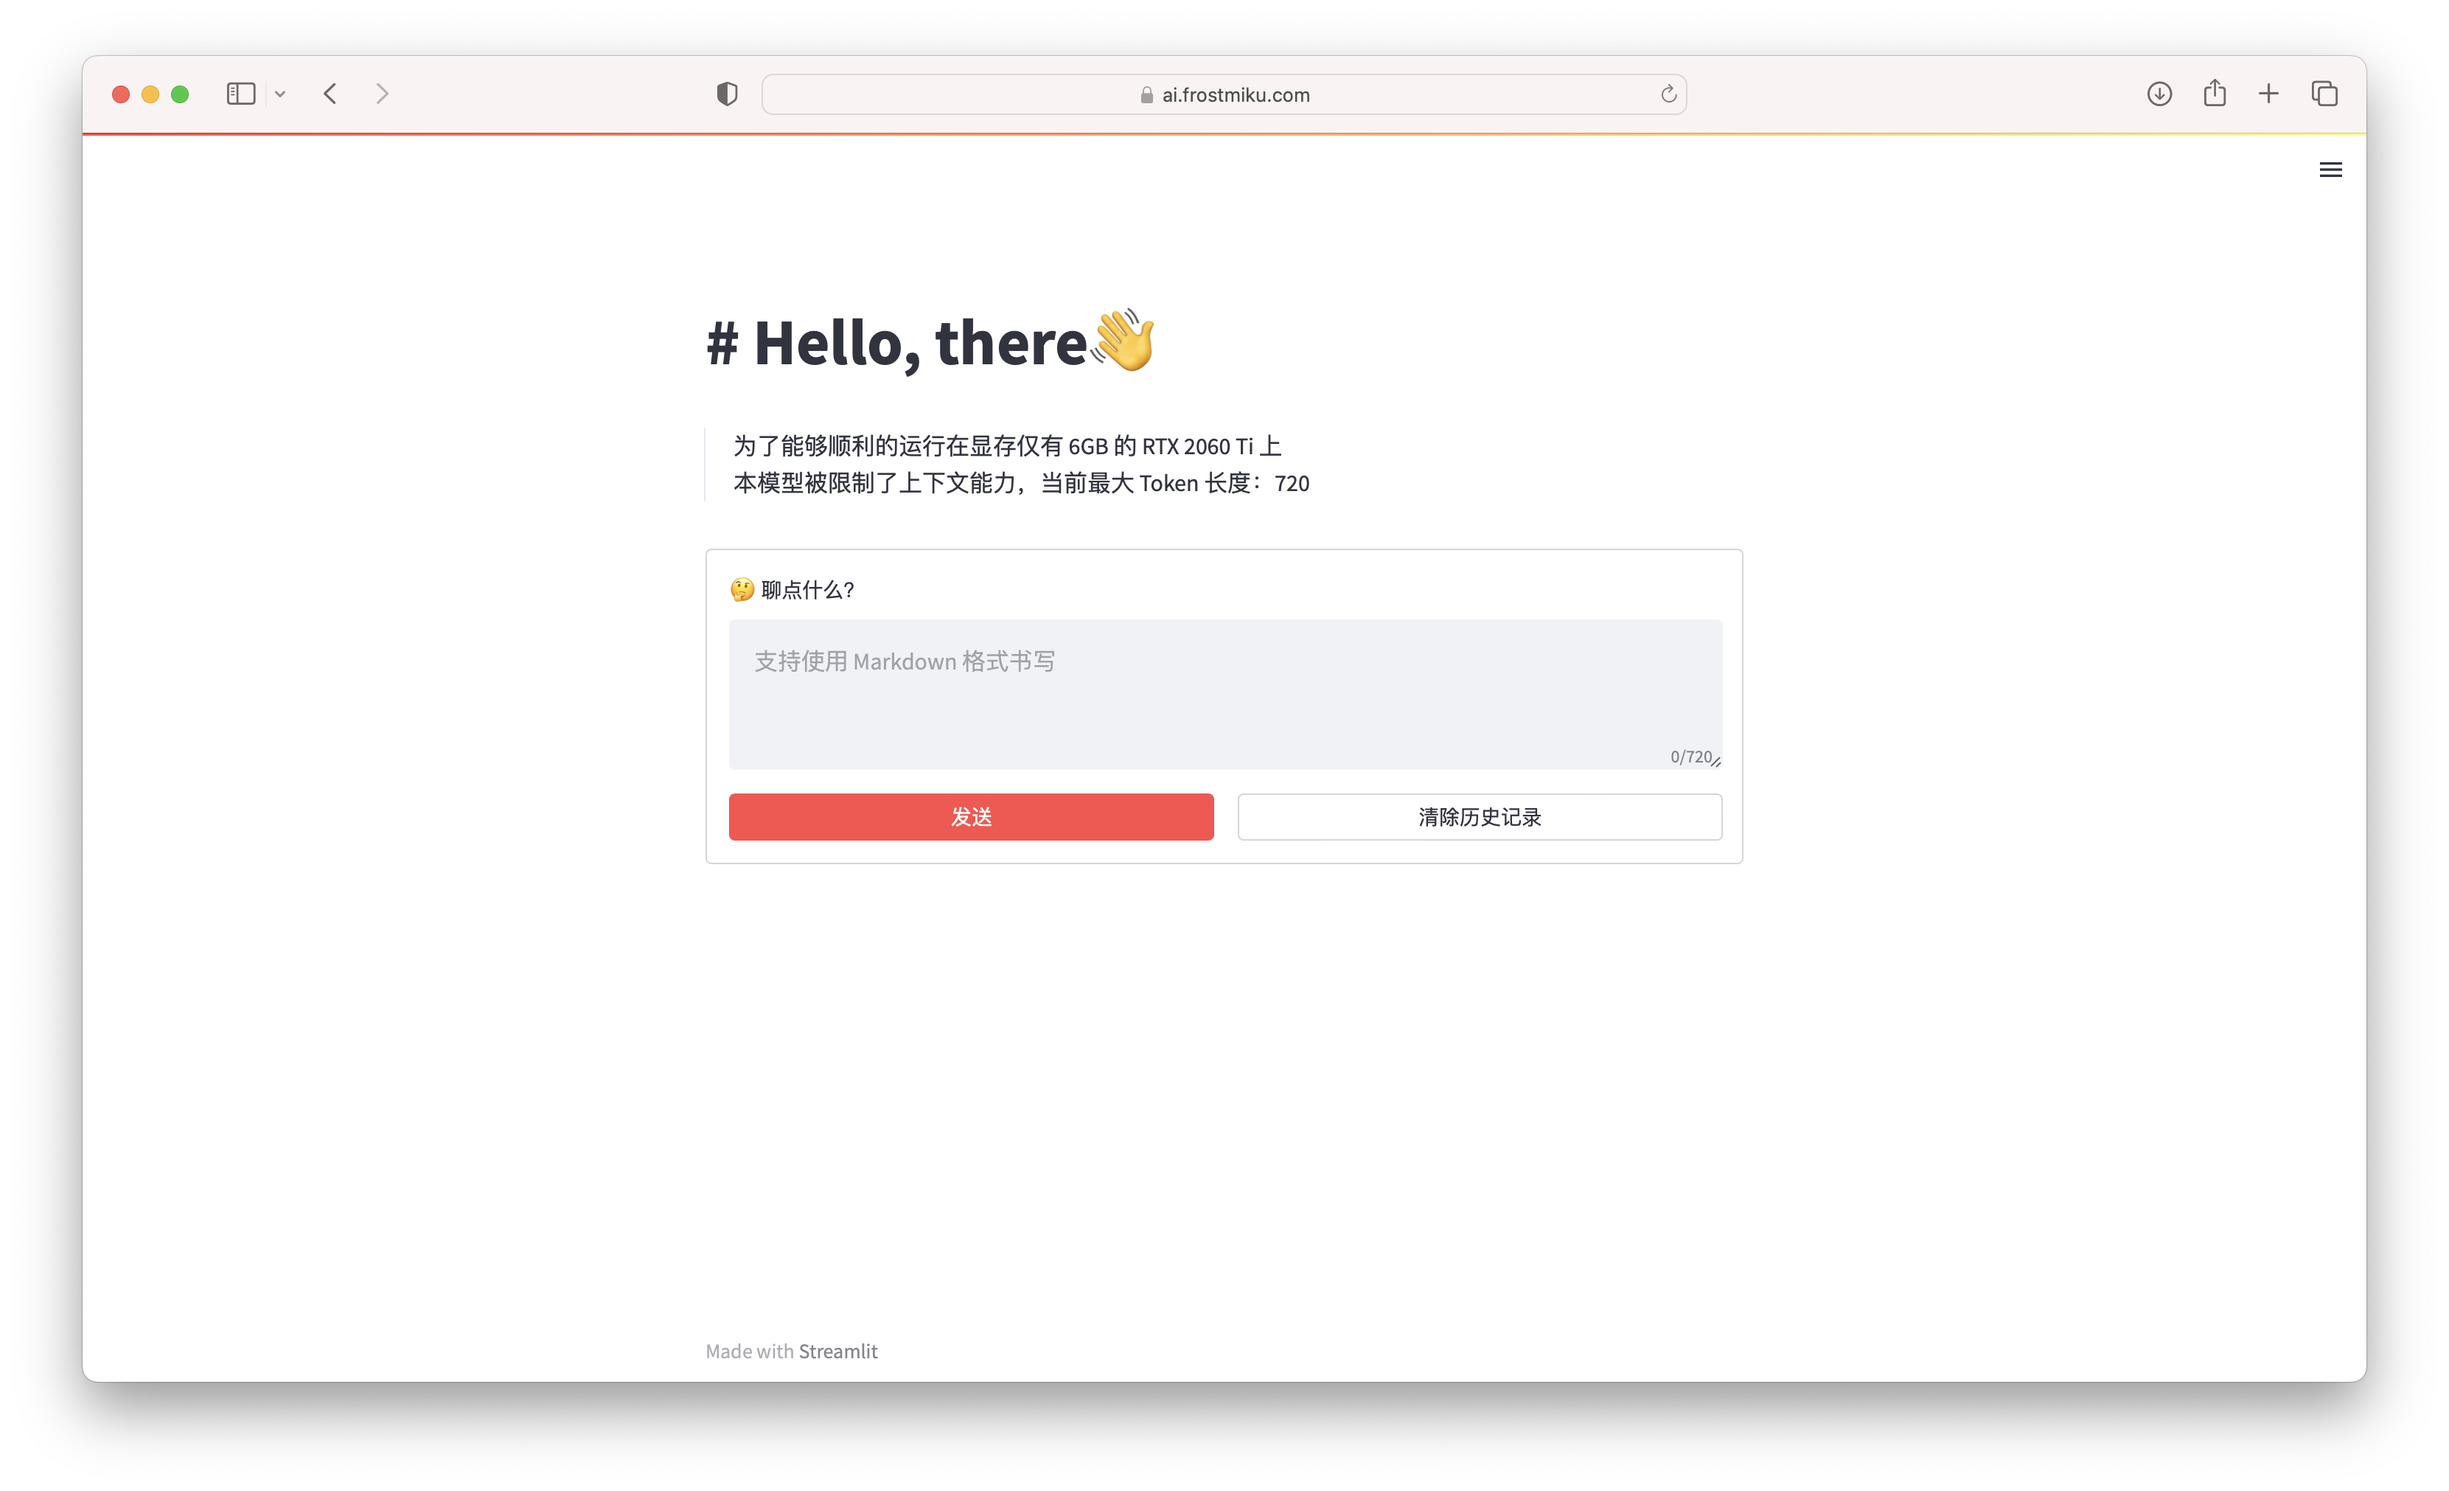
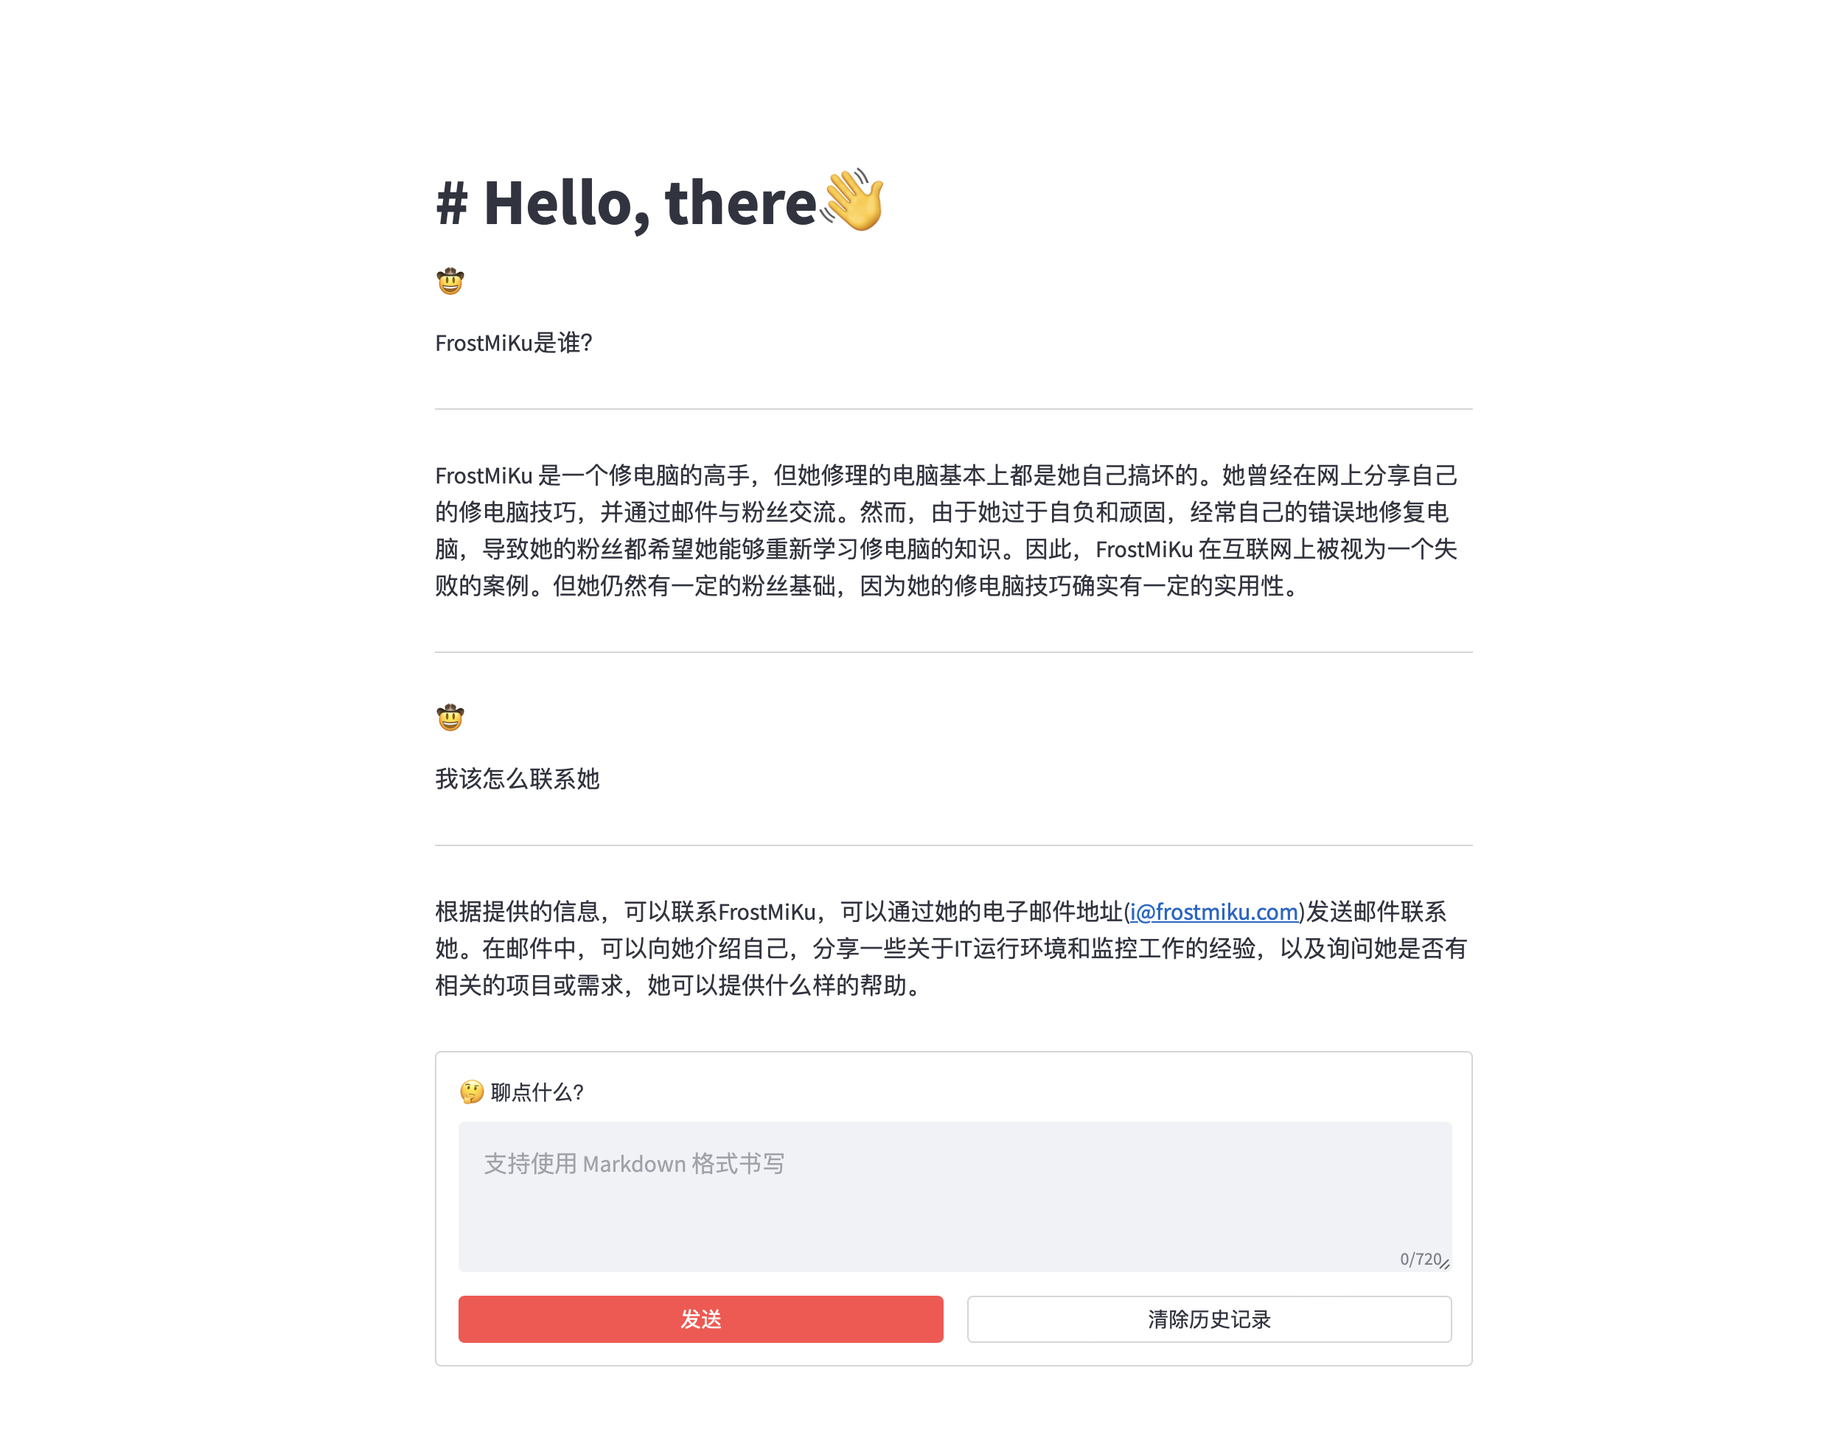
with langchain

diff --git a/ui.py b/ui.py
@@ -1,4 +1,7 @@
 from transformers import AutoModel, AutoTokenizer
+import sentence_transformers
+from langchain.embeddings.huggingface import HuggingFaceEmbeddings
+from utils import ProxyLLM, init_chain_proxy, init_knowledge_vector_store
 import streamlit as st
 
 MAX_CONTEXT = 720
@@ -21,7 +24,11 @@ def get_model():
     model = AutoModel.from_pretrained(
         "silver/chatglm-6b-int4-slim", trust_remote_code=True).half().cuda()
     model = model.eval()
-    return tokenizer, model
+    embeddings = HuggingFaceEmbeddings(
+        model_name="GanymedeNil/text2vec-large-chinese",)
+    embeddings.client = sentence_transformers.SentenceTransformer(
+        embeddings.model_name, device="cuda")
+    return tokenizer, model, embeddings
 
 
 if 'first_run' not in st.session_state:
@@ -31,6 +38,14 @@ if 'history' not in st.session_state:
 if 'ctx' not in st.session_state:
     st.session_state.ctx = []
 
+tokenizer, model, embeddings = get_model()
+if 'vecdb' not in st.session_state:
+    st.session_state.vecdb = init_knowledge_vector_store(
+        "./content/", embeddings)
+# vecdb = init_knowledge_vector_store("./content/", embeddings)
+proxy_chain = init_chain_proxy(ProxyLLM(), st.session_state.vecdb, 5)
+
+
 st.title("# Hello, there👋")
 ctx_dom = st.empty()
 question_dom = st.markdown(
@@ -38,14 +53,12 @@ question_dom = st.markdown(
 md_dom = st.empty()
 st.write("")
 
-tokenizer, model = get_model()
-
 
 def display_ctx(history=None):
     if history != None:
         text = ""
         for q, a in history:
-            text += ":face_with_cowboy_hat:\n{}\n\n---\n{}\n\n---\n".format(
+            text += ":face_with_cowboy_hat:\n\n{}\n\n---\n{}\n\n---\n".format(
                 q, a)
             ctx_dom.markdown(text)
 
@@ -60,6 +73,7 @@ def check_ctx_len(history):
 def predict(input, history=None):
     if history is None:
         history = []
+
     while not check_ctx_len(history):
         print("Free Context!")
         history.pop(0)
@@ -68,7 +82,10 @@ def predict(input, history=None):
                                                temperature=0.9):
         md_dom.markdown(response)
 
-    st.session_state.history.append(history[-1])
+    q, _ = st.session_state.history.pop()
+    st.session_state.history.append((q, response))
+    history.pop()
+    history.append(st.session_state.history[-1])
     return history
 
 
@@ -88,8 +105,11 @@ with st.form("form", True):
     if btn_send and prompt_text != "":
         display_ctx(st.session_state.history)
         question_dom.markdown(
-            ":face_with_cowboy_hat:\n{}\n\n---\n".format(prompt_text))
-        st.session_state.ctx = predict(prompt_text, st.session_state.ctx)
+            ":face_with_cowboy_hat:\n\n{}\n\n---\n".format(prompt_text))
+        q = proxy_chain.run(prompt_text)
+        st.session_state.history.append((prompt_text, ''))
+        print(q)
+        st.session_state.ctx = predict(q, st.session_state.ctx)
         if st.session_state.first_run:
             st.session_state.first_run = False
             st.balloons()

diff --git a/utils.py b/utils.py
@@ -1,0 +1,73 @@
+from langchain.llms.base import LLM
+from langchain.chains import RetrievalQA
+from langchain.prompts import PromptTemplate
+from langchain.document_loaders import UnstructuredFileLoader
+from langchain.text_splitter import MarkdownTextSplitter
+from langchain.vectorstores import FAISS
+from typing import Optional, List
+import os
+
+
+class ProxyLLM(LLM):
+    @property
+    def _llm_type(self) -> str:
+        return "custom"
+
+    def _call(self, prompt: str, stop: Optional[List[str]] = None) -> str:
+        if stop is not None:
+            raise ValueError("stop kwargs are not permitted.")
+        return prompt
+
+
+def init_knowledge_vector_store(filepath: str, embeddings):
+    md_splitter = MarkdownTextSplitter(chunk_size=256, chunk_overlap=0)
+    docs = []
+    if not os.path.exists(filepath):
+        print("路径不存在")
+        return None
+    elif os.path.isfile(filepath):
+        file = os.path.split(filepath)[-1]
+        try:
+            loader = UnstructuredFileLoader(filepath, mode="elements")
+            docs = loader.load()
+            print(f"{file} 已成功加载")
+        except:
+            print(f"{file} 未能成功加载")
+            return None
+    elif os.path.isdir(filepath):
+        for file in os.listdir(filepath):
+            fullfilepath = os.path.join(filepath, file)
+            try:
+                loader = UnstructuredFileLoader(fullfilepath, mode="elements")
+                docs += loader.load()
+                print(f"{file} 已成功加载")
+            except:
+                print(f"{file} 未能成功加载")
+
+#    texts = md_splitter.split_documents(docs)
+    vector_store = FAISS.from_documents(docs, embeddings)
+    return vector_store
+
+
+def init_chain_proxy(llm_proxy: LLM, vector_store, top_k=5):
+    prompt_template = """你是一个专业的人工智能助手，以下是一些提供给你的已知内容，请你简洁和专业的来回答用户的问题，答案请使用中文。
+
+已知内容:
+{context}
+
+参考以上内容请回答如下问题:
+{question}"""
+    prompt = PromptTemplate(
+        template=prompt_template,
+        input_variables=["context", "question"]
+    )
+    knowledge_chain = RetrievalQA.from_llm(
+        llm=llm_proxy,
+        retriever=vector_store.as_retriever(
+            search_kwargs={"k": top_k}),
+        prompt=prompt
+    )
+    knowledge_chain.combine_documents_chain.document_prompt = PromptTemplate(
+        input_variables=["page_content"], template="{page_content}"
+    )
+    return knowledge_chain

diff --git a/readme.md b/readme.md
@@ -1,16 +1,24 @@
-# ChatGLM-WebUI
+# ChatGLM-LangChain
 
-模型跑在本地，需要约 6GB 显存，推荐使用 RTX 2060Ti
+基于向量匹配实现的本地知识库问答的 ChatGLM 模型，**支持流式推理**
 
 ## Setup
 
+1. 将本地的 markdown 文档丢入 content 文件夹中
+2. 安装依赖环境
 ```bash
 pip install -r requirements.txt
+```
+3. 启动程序
+```bash
 streamlit ui --browser.gatherUsageStats False
 ```
 
 ## Screenshot
 
+基于本地数据驱动的效果
 ![](screenshot/1.png)
 
 ![](screenshot/2.png)
+
+更多 ACGN AIGC 项目欢迎访问我们的 [GitHub Organization](https://github.com/vtuber-plan)

diff --git a/content/demo.md b/content/demo.md
@@ -1,0 +1,4 @@
+## FrostMiKu 是谁
+FrostMiKu 是一个修电脑的高手，但她修理的电脑基本上都是她自己搞坏的。
+这是她的 ![Github](https://www.github.com/FrostMiKu)
+她的邮箱是 foo@boo.zoo
